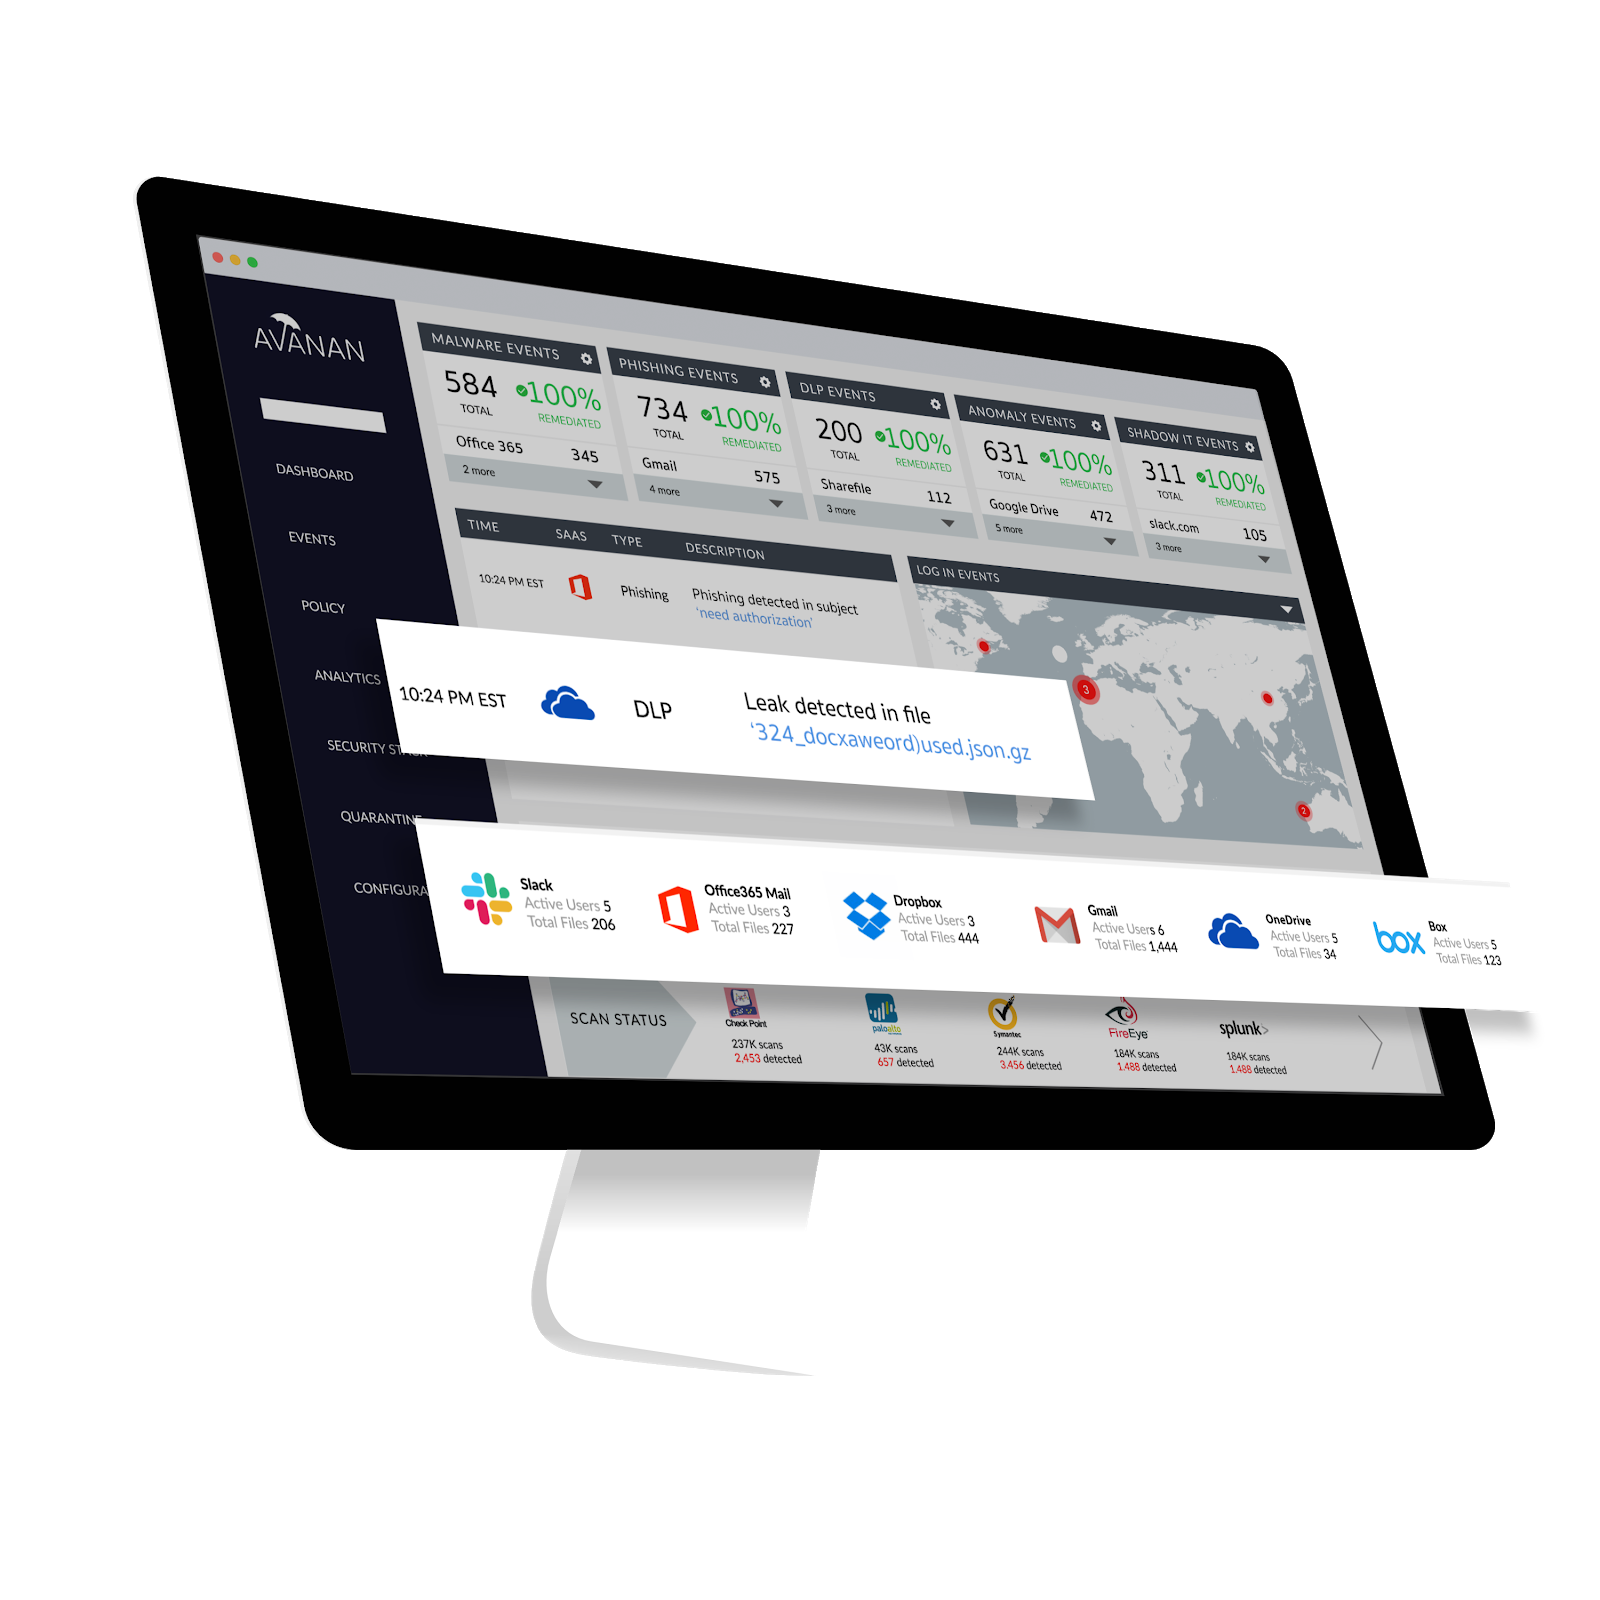
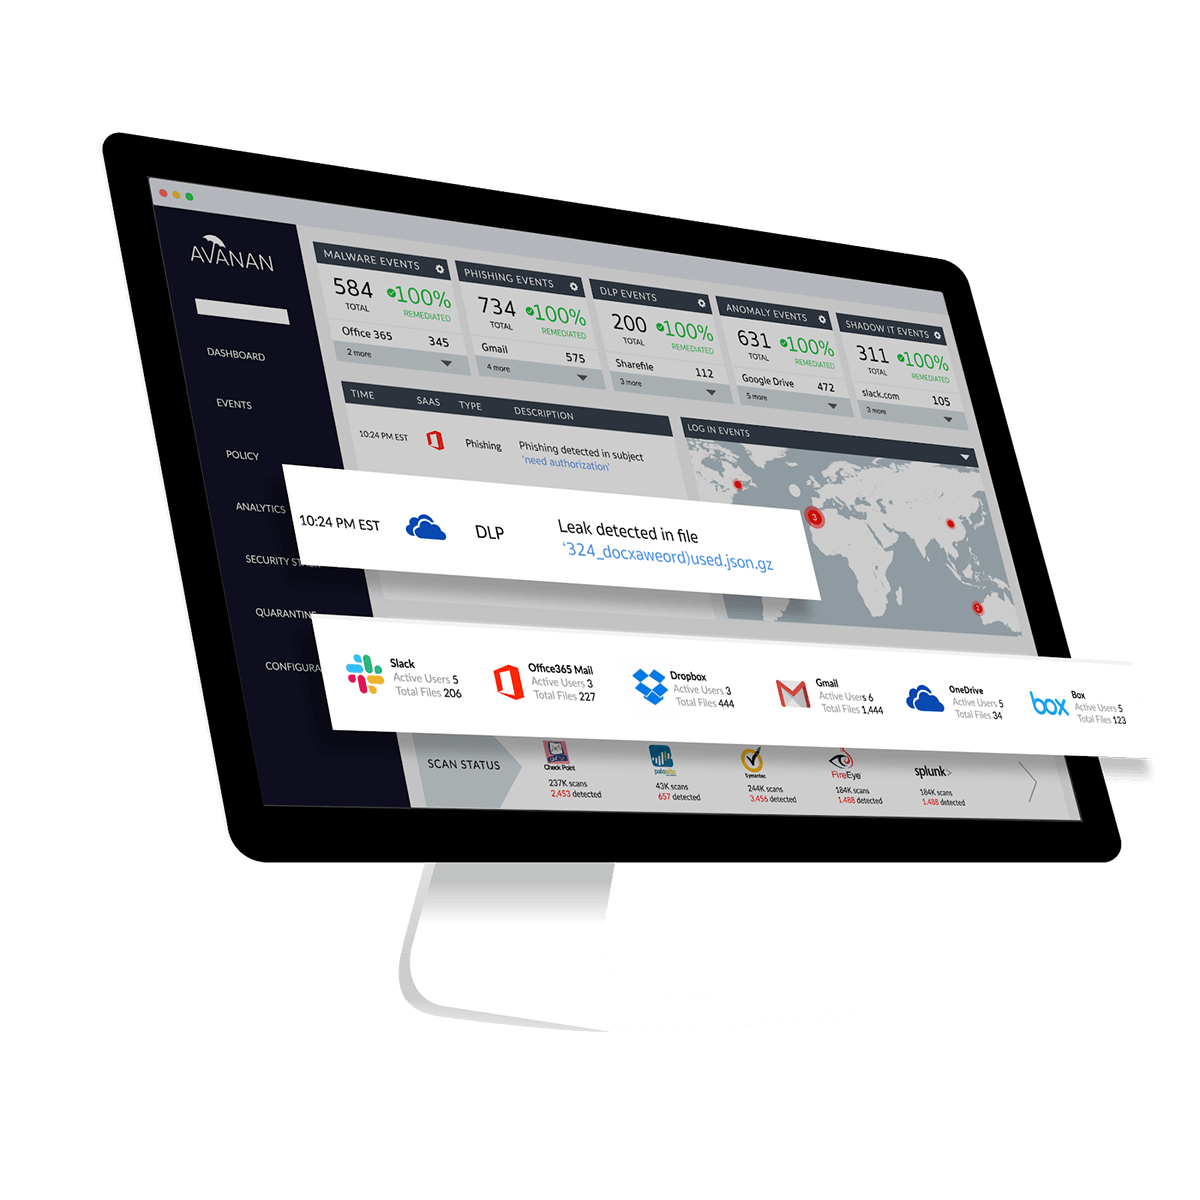
scaled and compressed how-it-works images

Changed region(s): [[0.4625, 0.4317, 0.5242, 0.4625], [0.4625, 0.555, 0.4933, 0.5858]]

diff --git a/how-it-works.html b/how-it-works.html
@@ -334,8 +334,6 @@
 
   <!-- ========== HEADER ========== -->
   <header id="header" class="u-header u-header--abs-top-md u-header--bg-transparent u-header--show-hide-md">
-
-    
     <div class="u-header__section">
 
       <div id="logoAndNav" class="container">
@@ -866,7 +864,7 @@
                 <h2>Full-Suite Protection</h2>
               </div>
               <!-- SVG Icon -->
-              <img id="full-suite-img" src="assets/img/full-suite-protection.png" alt="Image Description">
+              <img id="full-suite-img" src="assets/img/full-suite-protection.png" alt="Full-Suite Protection">
               <!-- End SVG Icon -->
             </div>
           </div>
@@ -920,7 +918,7 @@
                 <h2>Layered Security</h2>
               </div>
               <!-- SVG Icon -->
-              <img id="layered-img" src="assets/img/layered-security-screen-angled-1.png" alt="Image Description">
+              <img id="layered-img" src="assets/img/layered-security.png" alt="Layered Security">
               <!-- End SVG Icon -->
             </div>
           </div>

diff --git a/index.html b/index.html
@@ -610,7 +610,7 @@
               <span id="full-suite-icon" class="btn rounded-circle hmpg-icon" data-animation="bounce" data-animation-duration="1500" data-animation-delay="600">
                 <img style="width: 100%; height: auto margin: 0 auto;" src="assets/img/suite.png">
               </span>
-              <h3 class="h5">Full Suite Protection</h3>
+              <h3 class="h5">Full-Suite Protection</h3>
             </div>
           </div>
 
